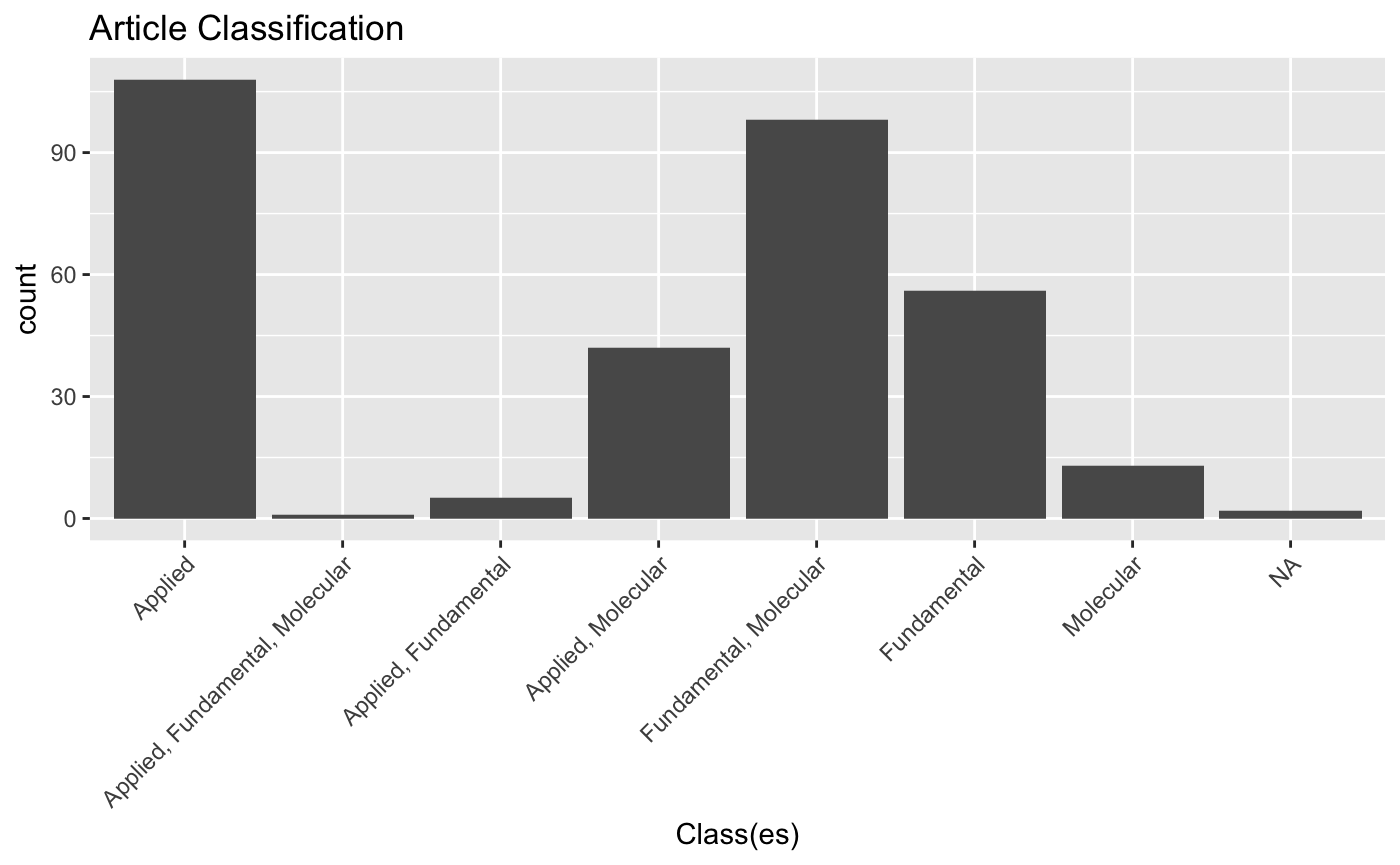
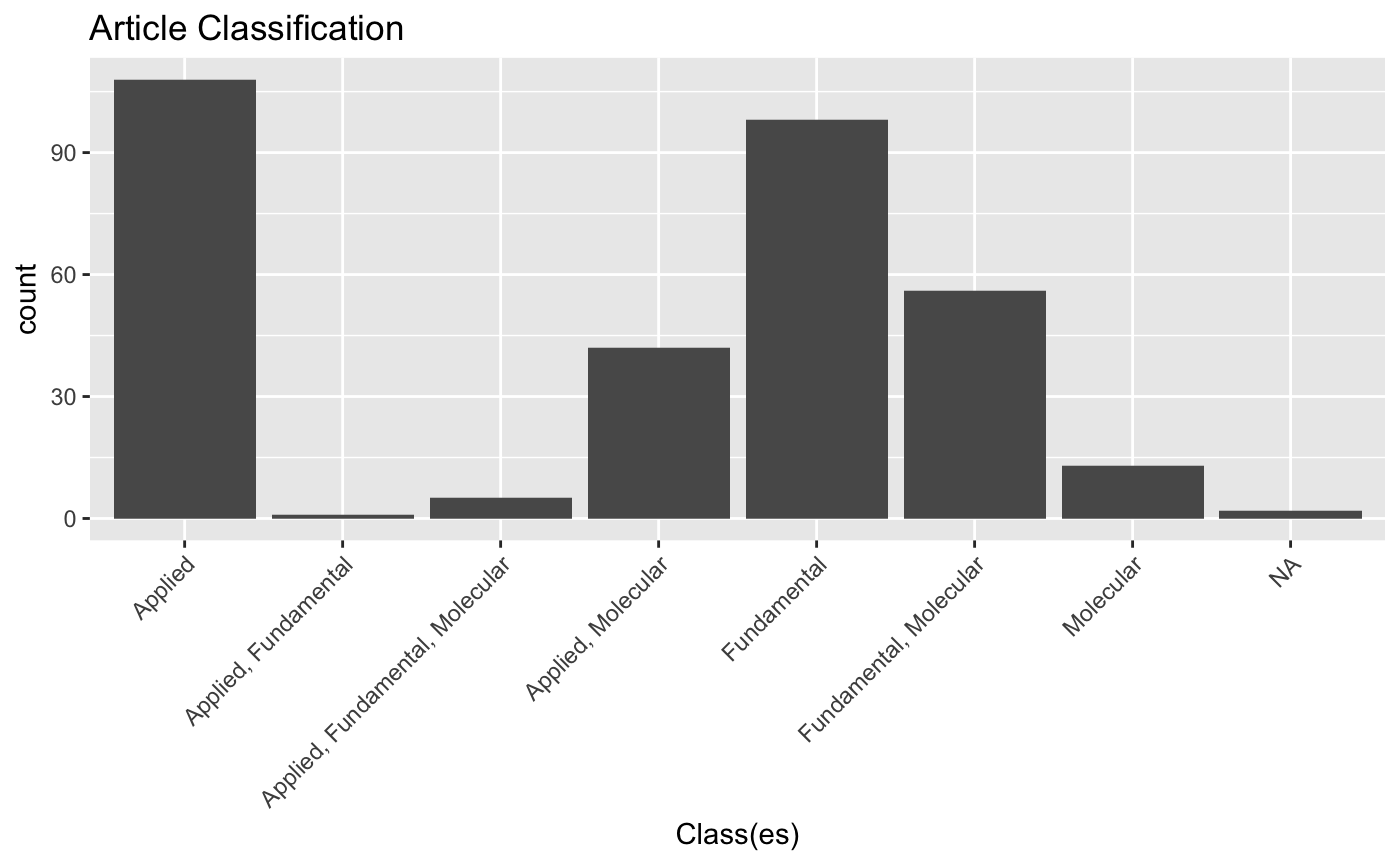
Clean up initial analysis code
- Clean up code for plots

- Put 5 year IF in boxplots

diff --git a/docs/articles/initial_analysis.html b/docs/articles/initial_analysis.html
@@ -132,20 +132,8 @@
 <a class="sourceLine" id="cb3-3" data-line-number="3"><span class="kw"><a href="http://www.rdocumentation.org/packages/ggplot2/topics/ggplot">ggplot</a></span>(rrpp, <span class="kw"><a href="http://www.rdocumentation.org/packages/ggplot2/topics/aes">aes</a></span>(<span class="dt">x =</span> art_class)) <span class="op">+</span></a>
 <a class="sourceLine" id="cb3-4" data-line-number="4"><span class="st">  </span><span class="kw"><a href="http://www.rdocumentation.org/packages/ggplot2/topics/geom_bar">geom_bar</a></span>(<span class="dt">stat =</span> <span class="st">"count"</span>) <span class="op">+</span></a>
 <a class="sourceLine" id="cb3-5" data-line-number="5"><span class="st">  </span><span class="kw"><a href="http://www.rdocumentation.org/packages/ggplot2/topics/labs">xlab</a></span>(<span class="st">"Class(es)"</span>) <span class="op">+</span></a>
-<a class="sourceLine" id="cb3-6" data-line-number="6"><span class="st">  </span><span class="kw"><a href="http://www.rdocumentation.org/packages/ggplot2/topics/scale_discrete">scale_x_discrete</a></span>(</a>
-<a class="sourceLine" id="cb3-7" data-line-number="7">    <span class="dt">labels =</span> <span class="kw">c</span>(</a>
-<a class="sourceLine" id="cb3-8" data-line-number="8">      <span class="st">"Applied"</span>,</a>
-<a class="sourceLine" id="cb3-9" data-line-number="9">      <span class="st">"Applied, Fundamental, Molecular"</span>,</a>
-<a class="sourceLine" id="cb3-10" data-line-number="10">      <span class="st">"Applied, Fundamental"</span>,</a>
-<a class="sourceLine" id="cb3-11" data-line-number="11">      <span class="st">"Applied, Molecular"</span>,</a>
-<a class="sourceLine" id="cb3-12" data-line-number="12">      <span class="st">"Fundamental, Molecular"</span>,</a>
-<a class="sourceLine" id="cb3-13" data-line-number="13">      <span class="st">"Fundamental"</span>,</a>
-<a class="sourceLine" id="cb3-14" data-line-number="14">      <span class="st">"Molecular"</span>,</a>
-<a class="sourceLine" id="cb3-15" data-line-number="15">      <span class="st">"NA"</span></a>
-<a class="sourceLine" id="cb3-16" data-line-number="16">    )</a>
-<a class="sourceLine" id="cb3-17" data-line-number="17">  ) <span class="op">+</span></a>
-<a class="sourceLine" id="cb3-18" data-line-number="18"><span class="st">  </span><span class="kw"><a href="http://www.rdocumentation.org/packages/ggplot2/topics/theme">theme</a></span>(<span class="dt">axis.text.x =</span> <span class="kw"><a href="http://www.rdocumentation.org/packages/ggplot2/topics/element">element_text</a></span>(<span class="dt">angle =</span> <span class="dv">45</span>, <span class="dt">hjust =</span> <span class="dv">1</span>)) <span class="op">+</span></a>
-<a class="sourceLine" id="cb3-19" data-line-number="19"><span class="st">  </span><span class="kw"><a href="http://www.rdocumentation.org/packages/ggplot2/topics/labs">ggtitle</a></span>(<span class="st">"Article Classification"</span>)</a></code></pre></div>
+<a class="sourceLine" id="cb3-6" data-line-number="6"><span class="st">  </span><span class="kw"><a href="http://www.rdocumentation.org/packages/ggplot2/topics/theme">theme</a></span>(<span class="dt">axis.text.x =</span> <span class="kw"><a href="http://www.rdocumentation.org/packages/ggplot2/topics/element">element_text</a></span>(<span class="dt">angle =</span> <span class="dv">45</span>, <span class="dt">hjust =</span> <span class="dv">1</span>)) <span class="op">+</span></a>
+<a class="sourceLine" id="cb3-7" data-line-number="7"><span class="st">  </span><span class="kw"><a href="http://www.rdocumentation.org/packages/ggplot2/topics/labs">ggtitle</a></span>(<span class="st">"Article Classification"</span>)</a></code></pre></div>
 <p><img src="initial_analysis_files/figure-html/unnamed-chunk-3-1.png" width="700"></p>
 </div>
 <div id="computational-methods-available" class="section level2">
@@ -232,19 +220,7 @@
 <a class="sourceLine" id="cb10-5" data-line-number="5"><span class="st">  </span><span class="kw"><a href="http://www.rdocumentation.org/packages/ggplot2/topics/labs">ggtitle</a></span>(<span class="st">"Article Class Effect on Reproducibility"</span>) <span class="op">+</span></a>
 <a class="sourceLine" id="cb10-6" data-line-number="6"><span class="st">  </span><span class="kw"><a href="http://www.rdocumentation.org/packages/ggplot2/topics/labs">xlab</a></span>(<span class="st">"Class(es)"</span>) <span class="op">+</span></a>
 <a class="sourceLine" id="cb10-7" data-line-number="7"><span class="st">  </span><span class="kw"><a href="http://www.rdocumentation.org/packages/ggplot2/topics/labs">ylab</a></span>(<span class="st">"Score"</span>) <span class="op">+</span></a>
-<a class="sourceLine" id="cb10-8" data-line-number="8"><span class="st">  </span><span class="kw"><a href="http://www.rdocumentation.org/packages/ggplot2/topics/scale_discrete">scale_x_discrete</a></span>(</a>
-<a class="sourceLine" id="cb10-9" data-line-number="9">    <span class="dt">labels =</span> <span class="kw">c</span>(</a>
-<a class="sourceLine" id="cb10-10" data-line-number="10">      <span class="st">"Applied"</span>,</a>
-<a class="sourceLine" id="cb10-11" data-line-number="11">      <span class="st">"Applied, Fundamental, Molecular"</span>,</a>
-<a class="sourceLine" id="cb10-12" data-line-number="12">      <span class="st">"Applied, Fundamental"</span>,</a>
-<a class="sourceLine" id="cb10-13" data-line-number="13">      <span class="st">"Applied, Molecular"</span>,</a>
-<a class="sourceLine" id="cb10-14" data-line-number="14">      <span class="st">"Fundamental, Molecular"</span>,</a>
-<a class="sourceLine" id="cb10-15" data-line-number="15">      <span class="st">"Fundamental"</span>,</a>
-<a class="sourceLine" id="cb10-16" data-line-number="16">      <span class="st">"Molecular"</span>,</a>
-<a class="sourceLine" id="cb10-17" data-line-number="17">      <span class="st">"NA"</span></a>
-<a class="sourceLine" id="cb10-18" data-line-number="18">    )</a>
-<a class="sourceLine" id="cb10-19" data-line-number="19">  ) <span class="op">+</span></a>
-<a class="sourceLine" id="cb10-20" data-line-number="20"><span class="st">  </span><span class="kw"><a href="http://www.rdocumentation.org/packages/ggplot2/topics/theme">theme</a></span>(<span class="dt">axis.text.x =</span> <span class="kw"><a href="http://www.rdocumentation.org/packages/ggplot2/topics/element">element_text</a></span>(<span class="dt">angle =</span> <span class="dv">45</span>, <span class="dt">hjust =</span> <span class="dv">1</span>))</a></code></pre></div>
+<a class="sourceLine" id="cb10-8" data-line-number="8"><span class="st">  </span><span class="kw"><a href="http://www.rdocumentation.org/packages/ggplot2/topics/theme">theme</a></span>(<span class="dt">axis.text.x =</span> <span class="kw"><a href="http://www.rdocumentation.org/packages/ggplot2/topics/element">element_text</a></span>(<span class="dt">angle =</span> <span class="dv">45</span>, <span class="dt">hjust =</span> <span class="dv">1</span>))</a></code></pre></div>
 <p><img src="initial_analysis_files/figure-html/unnamed-chunk-10-1.png" width="700"></p>
 </div>
 <div id="journal-effect-on-reproducibility-score" class="section level2">
@@ -276,12 +252,11 @@
 <h2 class="hasAnchor">
 <a href="#five-year-impact-factor-effect-on-reproducibility-score" class="anchor"></a>Five year impact factor effect on reproducibility score</h2>
 <div class="sourceCode" id="cb13"><pre class="sourceCode r"><code class="sourceCode r"><a class="sourceLine" id="cb13-1" data-line-number="1"><span class="kw"><a href="http://www.rdocumentation.org/packages/ggplot2/topics/ggplot">ggplot</a></span>(rrpp, <span class="kw"><a href="http://www.rdocumentation.org/packages/ggplot2/topics/aes">aes</a></span>(<span class="dt">y =</span> reproducibility_score,</a>
-<a class="sourceLine" id="cb13-2" data-line-number="2">                 <span class="dt">x =</span> IF_5year)) <span class="op">+</span></a>
-<a class="sourceLine" id="cb13-3" data-line-number="3"><span class="st">  </span><span class="kw"><a href="http://www.rdocumentation.org/packages/ggplot2/topics/geom_jitter">geom_jitter</a></span>(<span class="dt">width =</span> <span class="fl">0.25</span>, <span class="dt">alpha =</span> <span class="fl">0.5</span>) <span class="op">+</span></a>
+<a class="sourceLine" id="cb13-2" data-line-number="2">                 <span class="dt">x =</span> <span class="kw">as.factor</span>(<span class="kw">round</span>(IF_5year, <span class="dv">2</span>)))) <span class="op">+</span></a>
+<a class="sourceLine" id="cb13-3" data-line-number="3"><span class="st">  </span><span class="kw"><a href="http://www.rdocumentation.org/packages/ggplot2/topics/geom_boxplot">geom_boxplot</a></span>() <span class="op">+</span></a>
 <a class="sourceLine" id="cb13-4" data-line-number="4"><span class="st">  </span><span class="kw"><a href="http://www.rdocumentation.org/packages/ggplot2/topics/labs">ggtitle</a></span>(<span class="st">"Five Year IF Effect on Reproducibility Score"</span>) <span class="op">+</span></a>
 <a class="sourceLine" id="cb13-5" data-line-number="5"><span class="st">  </span><span class="kw"><a href="http://www.rdocumentation.org/packages/ggplot2/topics/labs">xlab</a></span>(<span class="st">"Impact Factor"</span>) <span class="op">+</span></a>
-<a class="sourceLine" id="cb13-6" data-line-number="6"><span class="st">  </span><span class="kw"><a href="http://www.rdocumentation.org/packages/ggplot2/topics/labs">ylab</a></span>(<span class="st">"Score"</span>)</a>
-<a class="sourceLine" id="cb13-7" data-line-number="7"><span class="co">#&gt; Warning: Removed 23 rows containing missing values (geom_point).</span></a></code></pre></div>
+<a class="sourceLine" id="cb13-6" data-line-number="6"><span class="st">  </span><span class="kw"><a href="http://www.rdocumentation.org/packages/ggplot2/topics/labs">ylab</a></span>(<span class="st">"Score"</span>)</a></code></pre></div>
 <p><img src="initial_analysis_files/figure-html/unnamed-chunk-13-1.png" width="700"></p>
 </div>
 <div id="journal-open-access-effect-on-reproducibility-score" class="section level2">
